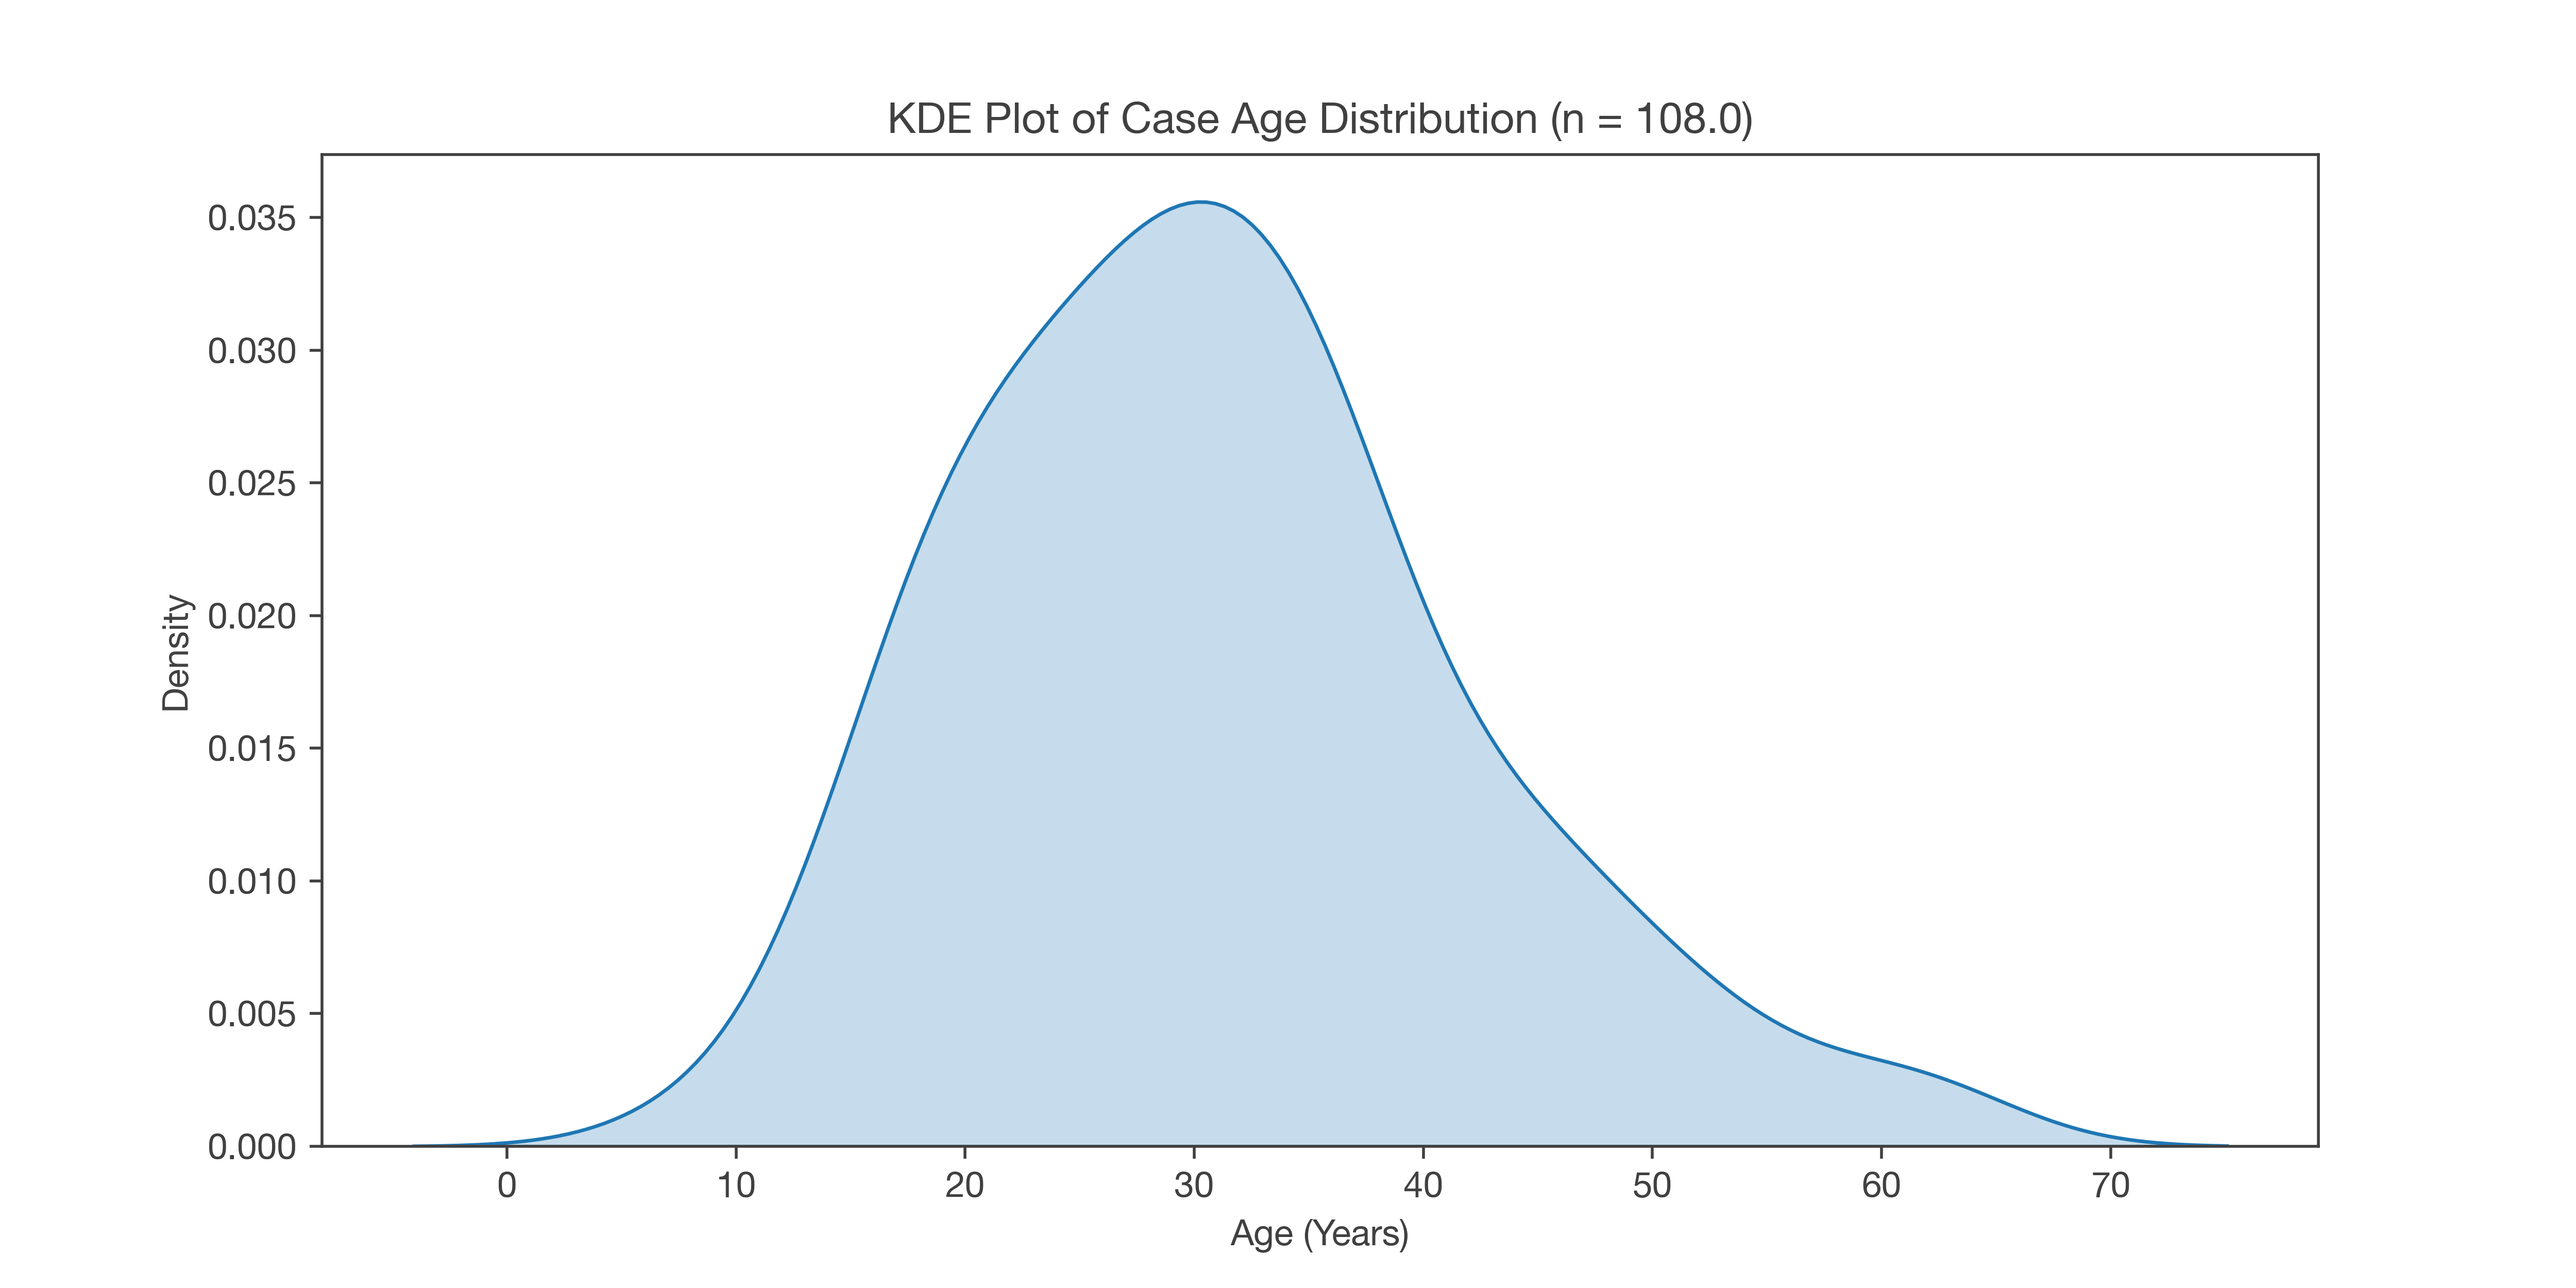
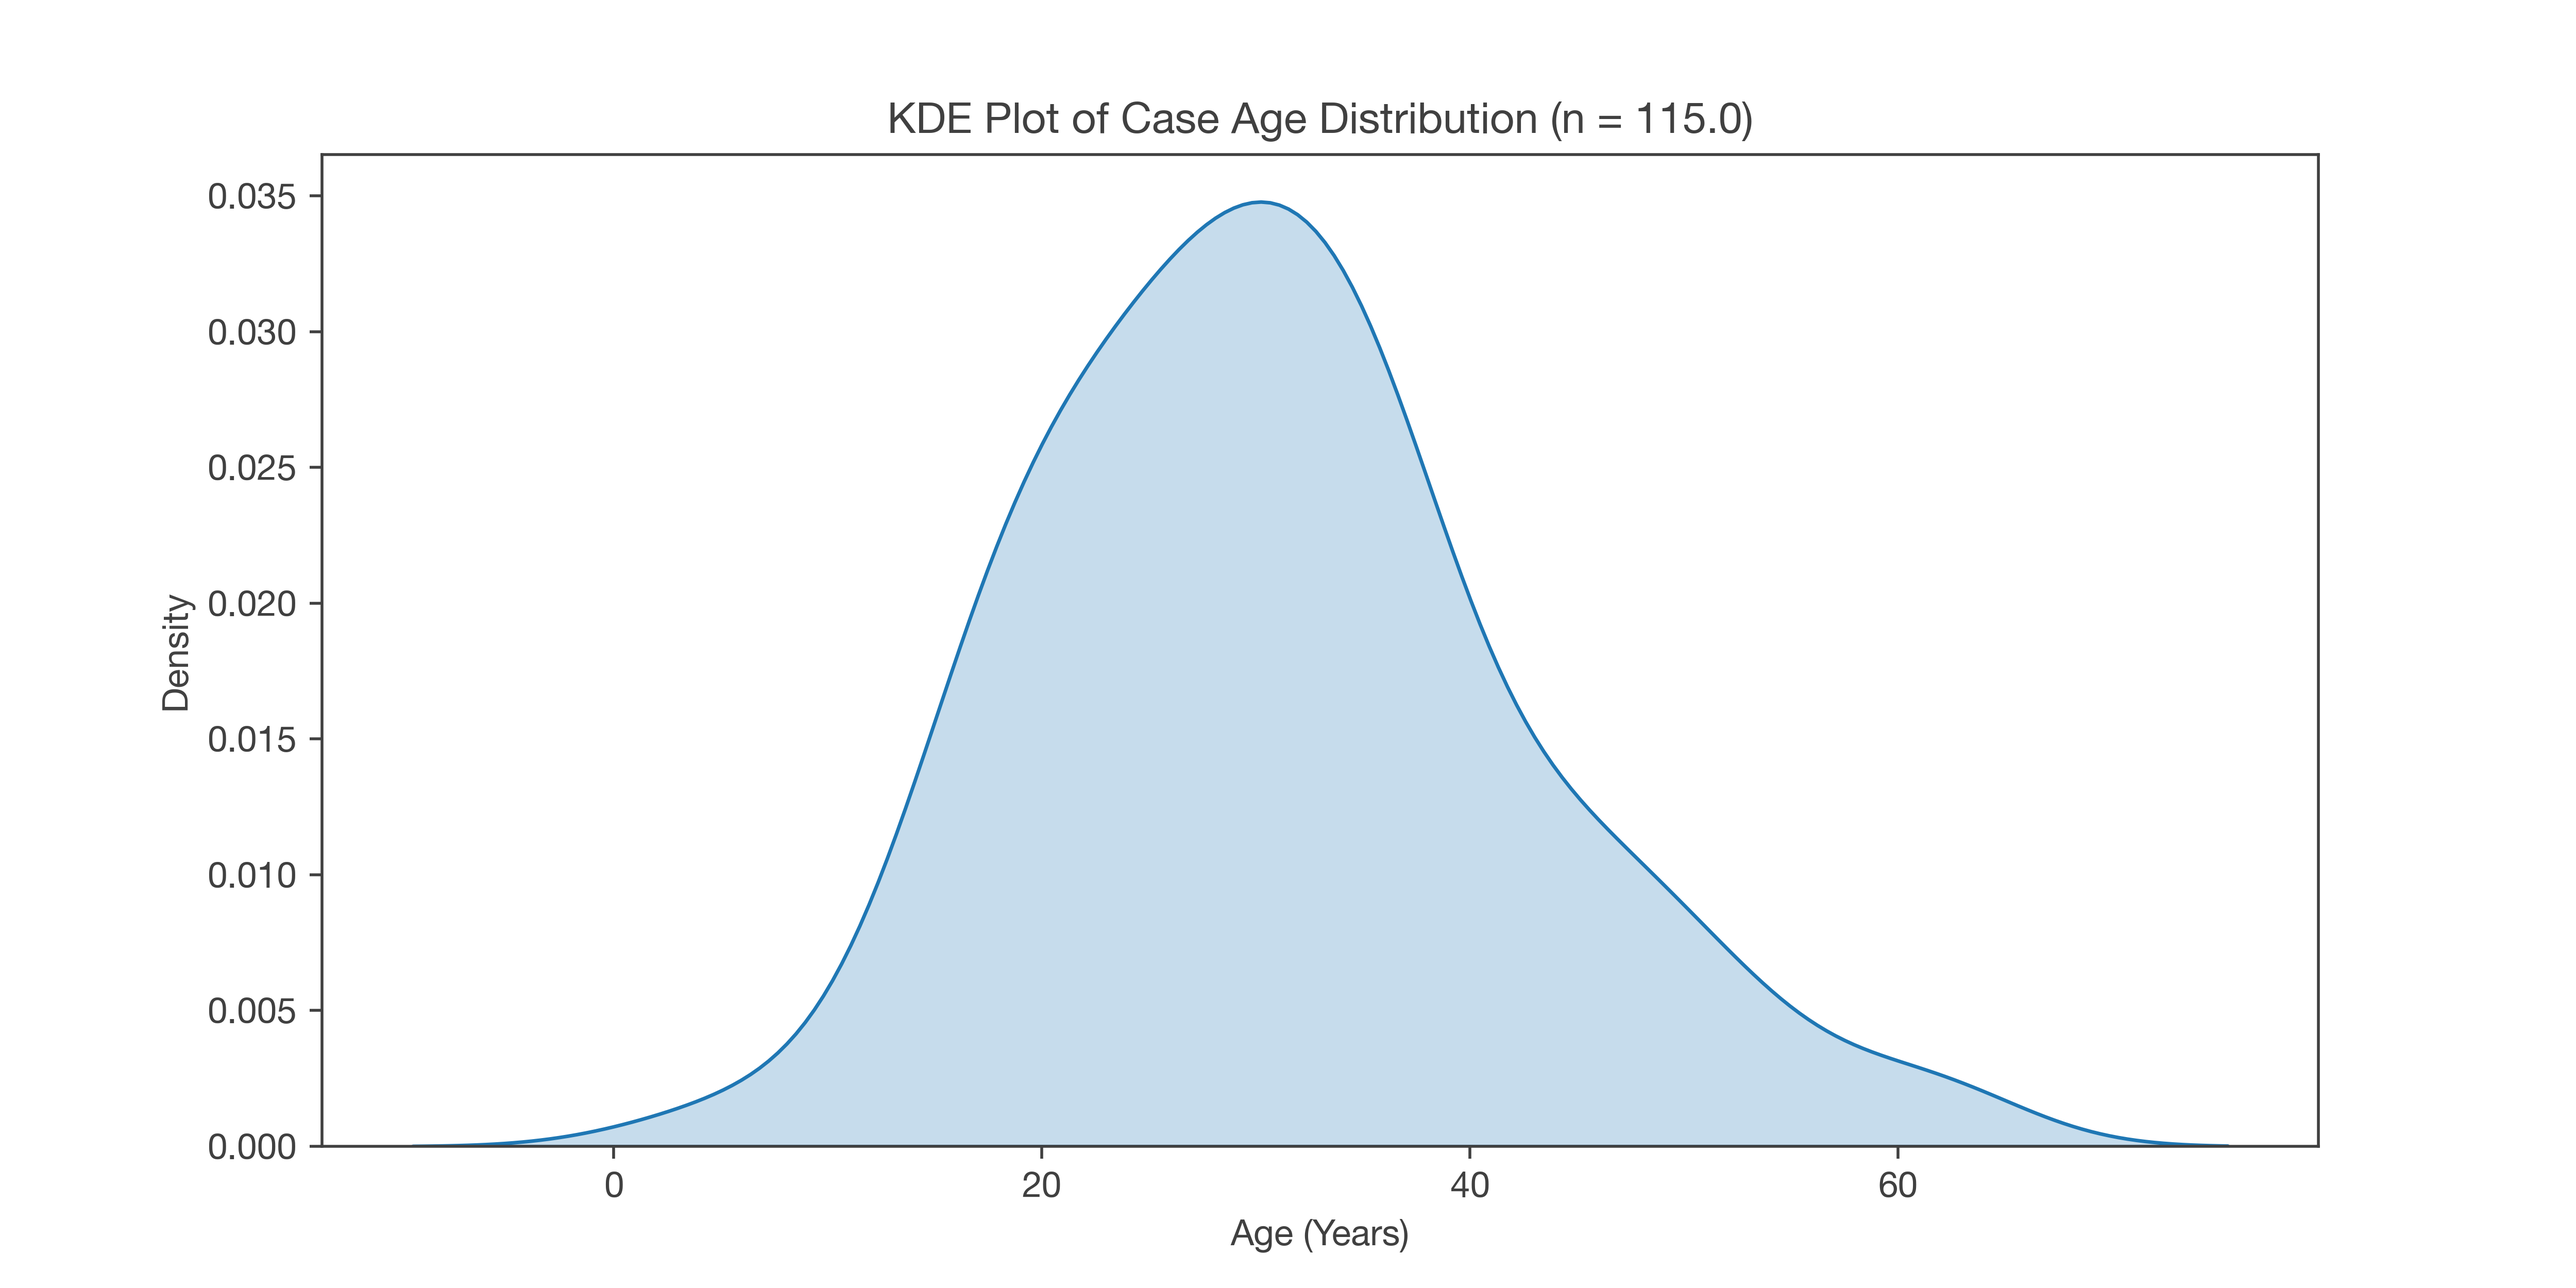
Continued data extraction

diff --git a/output/reports/data_extraction/tables/top_correlations.tex b/output/reports/data_extraction/tables/top_correlations.tex
@@ -7,36 +7,36 @@
 \toprule
 Variable A & Variable B & Correlation \\
 \midrule
-Object Long & Object Short & -0.946000 \\
-Motivation Other & Motivation Other Psych Hx & 0.759000 \\
-Object Sharp & Object Short Sharp & 0.635000 \\
-Object Short & Object Short Sharp & 0.625000 \\
+Object Long & Object Short & -0.916000 \\
+Motivation Other & Motivation Other Psych Hx & 0.760000 \\
 Severe Disability Hx & Motivation Other Severe Disability Hx & 0.624000 \\
-Object Long & Object Diameter Large & 0.602000 \\
-Psych Hx & Motivation Psychiatric & 0.594000 \\
-Object Long & Object Short Sharp & -0.589000 \\
-Outcome Injury Needing Intervention & Outcome Perforation & 0.578000 \\
-Outcome Endoscopy & Outcome Surgery & -0.571000 \\
-Motivation Other Psych Hx & Motivation Other Severe Disability Hx & 0.566000 \\
-Object Diameter Large & Object Short & -0.556000 \\
-Object Long & Object Long Sharp & 0.545000 \\
-Object Multiple & Object Short & 0.525000 \\
-Object Long Sharp & Object Short & -0.508000 \\
-Object Sharp & Object Long Sharp & 0.506000 \\
-Outcome Surgery & Outcome Injury Needing Intervention & 0.504000 \\
-Object Diameter Large & Object Short Sharp & -0.485000 \\
-Object Long & Object Multiple & -0.478000 \\
-Object Multiple & Object Short Sharp & 0.475000 \\
-Object Button Battery & Object Magnet & 0.439000 \\
-Motivation Other & Motivation Other Severe Disability Hx & 0.430000 \\
-Outcome Surgery & Outcome Conservative & -0.423000 \\
-Outcome Endoscopy & Outcome Endoscopy Surgery & 0.422000 \\
-Outcome Surgery & Outcome Perforation & 0.403000 \\
-Psych Hx & Motivation Psychosocial & -0.399000 \\
-Psych Hx & Previous Ingestions & 0.372000 \\
-Object Diameter Large & Outcome Surgery & 0.370000 \\
-Outcome Endoscopy & Outcome Perforation & -0.368000 \\
-Motivation Psychosocial & Motivation Unknown & -0.361000 \\
+Object Short & Object Short Sharp & 0.617000 \\
+Object Sharp & Object Short Sharp & 0.616000 \\
+Object Long & Object Diameter Large & 0.601000 \\
+Psych Hx & Motivation Psychiatric & 0.597000 \\
+Outcome Endoscopy & Outcome Surgery & -0.595000 \\
+Outcome Injury Needing Intervention & Outcome Perforation & 0.591000 \\
+Motivation Other Psych Hx & Motivation Other Severe Disability Hx & 0.567000 \\
+Object Long & Object Short Sharp & -0.564000 \\
+Object Long & Object Long Sharp & 0.550000 \\
+Object Diameter Large & Object Short & -0.505000 \\
+Object Long Sharp & Object Short & -0.497000 \\
+Object Sharp & Object Long Sharp & 0.496000 \\
+Outcome Surgery & Outcome Injury Needing Intervention & 0.496000 \\
+Object Multiple & Object Short & 0.486000 \\
+Object Diameter Large & Object Short Sharp & -0.475000 \\
+Object Multiple & Object Short Sharp & 0.458000 \\
+Object Long & Object Multiple & -0.450000 \\
+Motivation Other & Motivation Other Severe Disability Hx & 0.431000 \\
+Outcome Surgery & Outcome Perforation & 0.425000 \\
+Outcome Surgery & Outcome Conservative & -0.414000 \\
+Outcome Endoscopy & Outcome Endoscopy Surgery & 0.413000 \\
+Outcome Endoscopy & Outcome Perforation & -0.392000 \\
+Psych Hx & Previous Ingestions & 0.365000 \\
+Psych Hx & Motivation Psychosocial & -0.364000 \\
+Motivation Psychosocial & Motivation Unknown & -0.354000 \\
+Motivation Intent To Harm & Motivation Unknown & -0.353000 \\
+Previous Ingestions & Outcome Surgery & -0.342000 \\
 \bottomrule
 \end{tabular}
 

diff --git a/output/reports/data_extraction/tables/outcome_other_long_table.tex b/output/reports/data_extraction/tables/outcome_other_long_table.tex
@@ -29,6 +29,8 @@ Patient\ ID & Free Text \\
 369-001 & Retroperitoneal Abscess "onsidering the severe adherence of viscera on the right side of the abdomen, this area was inspected, and a retroperitoneal abscess was observed posterior to the ascending colon on the psoas muscle", "The posterior wall of the ascending colon was macerated to the presence of an adjacent abscess, and a small perforation was present" \\
 370-001 & "hypodermic needle FB that transmigrated to the left atrium and presented as a left atrial mass \\
 373-001 & "thermometer was outside the esophageal wall and was located in the left tracheoesophageal groove and wrapped in the fibrous membrane. The foreign body was removed successfully (Figure 3). The incision primarily healed and he was discharged after 5 d with no complications." \\
+380-001 & "fluoroscopy", "transferred to the psychiatric hospital on day three postoperative because of the high risk of suicidal ideation and poor insight" \\
+382-001 & "severe ulceration." \\
 386-001 & "foreign body ingestion mimicking IBD" \\
 399-001 & Septic shock, "On opening the thoracic cavity, approximately 300 ml of dark red effusion was observed in both thoracic cavities. Additionally, 60 ml of dark red effusion was present in the pericardium. On opening the abdominal cavity, approximately 400 ml of dark red effusion was present in the abdominal cavity, and a long hard FB was located in the duodenal area. The visceral surface of the liver adhered tightly to the duodenum. In the duodenum, an 11.9 cm long hard toothbrush handle was detected, with one end of the toothbrush perforating the duodenum and penetrating the right lobe of the liver (Figure 1 ). The liver was incised along the toothbrush, and the depth of the liver penetration was approximately 6.5 cm, with a large abscess present on the right lobe of the liver. The total handle was 14.5 cm long, only 11.9 cm of it protruded into the duodenum (Figure 2 ). The diameter of the duodenum rupture was approximately 1.0 cm. No other FBs or perforations were documented in the digestive tract" \\
 405-001 & "emergent tracheostomy under local anesthesia" \\

diff --git a/output/reports/data_extraction/tables/outcome_summary.tex b/output/reports/data_extraction/tables/outcome_summary.tex
@@ -5,15 +5,15 @@
 \toprule
  & Count (1s) & Valid N & Percentage (\%) \\
 \midrule
-Outcome Surgery & 67 & 109 & 61.5 \\
-Outcome Injury Needing Intervention & 58 & 109 & 53.2 \\
-Outcome Endoscopy & 42 & 108 & 38.9 \\
-Outcome Other & 42 & 109 & 38.5 \\
-Outcome Perforation & 30 & 109 & 27.5 \\
-Outcome Obstruction & 17 & 109 & 15.6 \\
-Outcome Conservative & 11 & 109 & 10.1 \\
-Outcome Endoscopy Surgery & 11 & 109 & 10.1 \\
-Outcome Death & 6 & 109 & 5.5 \\
+Outcome Surgery & 72 & 116 & 62.1 \\
+Outcome Injury Needing Intervention & 63 & 116 & 54.3 \\
+Outcome Endoscopy & 44 & 115 & 38.3 \\
+Outcome Other & 44 & 116 & 37.9 \\
+Outcome Perforation & 34 & 116 & 29.3 \\
+Outcome Obstruction & 17 & 116 & 14.7 \\
+Outcome Conservative & 11 & 116 & 9.5 \\
+Outcome Endoscopy Surgery & 11 & 116 & 9.5 \\
+Outcome Death & 6 & 116 & 5.2 \\
 \bottomrule
 \end{tabular}
         \label{tab:outcome_summary}

diff --git a/output/reports/data_extraction/tables/motivation_summary.tex b/output/reports/data_extraction/tables/motivation_summary.tex
@@ -5,14 +5,14 @@
 \toprule
  & Count (1s) & Valid N & Percentage (\%) \\
 \midrule
-Motivation Unknown & 47 & 109 & 43.1 \\
-Motivation Psychiatric & 35 & 109 & 32.1 \\
-Motivation Intent To Harm & 22 & 109 & 20.2 \\
-Motivation Psychosocial & 16 & 109 & 14.7 \\
-Motivation Other & 10 & 109 & 9.2 \\
-Motivation Protest & 9 & 109 & 8.3 \\
-Motivation Other Psych Hx & 6 & 109 & 5.5 \\
-Motivation Other Severe Disability Hx & 2 & 109 & 1.8 \\
+Motivation Unknown & 51 & 116 & 44.0 \\
+Motivation Psychiatric & 35 & 116 & 30.2 \\
+Motivation Intent To Harm & 23 & 116 & 19.8 \\
+Motivation Psychosocial & 16 & 116 & 13.8 \\
+Motivation Other & 10 & 116 & 8.6 \\
+Motivation Protest & 9 & 116 & 7.8 \\
+Motivation Other Psych Hx & 6 & 116 & 5.2 \\
+Motivation Other Severe Disability Hx & 2 & 116 & 1.7 \\
 \bottomrule
 \end{tabular}
         \label{tab:motivation_summary}

diff --git a/output/reports/data_extraction/tables/object_summary.tex b/output/reports/data_extraction/tables/object_summary.tex
@@ -5,15 +5,15 @@
 \toprule
  & Count (1s) & Valid N & Percentage (\%) \\
 \midrule
-Object Diameter Large & 76 & 108 & 70.4 \\
-Object Short & 55 & 109 & 50.5 \\
-Object Sharp & 54 & 108 & 50.0 \\
-Object Long & 50 & 108 & 46.3 \\
-Object Multiple & 47 & 108 & 43.5 \\
-Object Short Sharp & 31 & 109 & 28.4 \\
-Object Long Sharp & 22 & 109 & 20.2 \\
-Object Magnet & 5 & 108 & 4.6 \\
-Object Button Battery & 1 & 108 & 0.9 \\
+Object Diameter Large & 80 & 115 & 69.6 \\
+Object Sharp & 58 & 115 & 50.4 \\
+Object Short & 58 & 116 & 50.0 \\
+Object Long & 52 & 115 & 45.2 \\
+Object Multiple & 48 & 115 & 41.7 \\
+Object Short Sharp & 32 & 116 & 27.6 \\
+Object Long Sharp & 23 & 116 & 19.8 \\
+Object Magnet & 5 & 115 & 4.3 \\
+Object Button Battery & 2 & 115 & 1.7 \\
 \bottomrule
 \end{tabular}
         \label{tab:object_summary}

diff --git a/output/reports/data_extraction/tables/population_summary.tex b/output/reports/data_extraction/tables/population_summary.tex
@@ -5,13 +5,13 @@
 \toprule
  & Count (1s) & Valid N & Percentage (\%) \\
 \midrule
-Psych Hx & 59 & 109 & 54.1 \\
-Previous Ingestions & 36 & 109 & 33.0 \\
-Is Prisoner & 25 & 109 & 22.9 \\
-Is Psych Inpat & 8 & 109 & 7.3 \\
-Severe Disability Hx & 5 & 109 & 4.6 \\
-Under Influence Alcohol & 4 & 109 & 3.7 \\
-Is Displaced Person & 2 & 109 & 1.8 \\
+Psych Hx & 60 & 116 & 51.7 \\
+Previous Ingestions & 37 & 116 & 31.9 \\
+Is Prisoner & 25 & 116 & 21.6 \\
+Is Psych Inpat & 8 & 116 & 6.9 \\
+Severe Disability Hx & 5 & 116 & 4.3 \\
+Under Influence Alcohol & 4 & 116 & 3.4 \\
+Is Displaced Person & 2 & 116 & 1.7 \\
 \bottomrule
 \end{tabular}
         \label{tab:population_summary}

diff --git a/output/reports/data_extraction/tables/object_other_long_table.tex b/output/reports/data_extraction/tables/object_other_long_table.tex
@@ -83,6 +83,13 @@ Patient\ ID & Free Text Object\\
 369-001 & "metallic wire of 20 cm length" \\
 370-001 & "5cm hypodermic needle" \\
 373-001 & "Thermometer" \\
+377-001 & "Needle" \\
+377-002 & "metallic spoon" \\
+377-003 & "sheet metal" \\
+377-004 & "Nails" \\
+380-001 & "ingested a knife without its handle", "sharp knife, 12 cm long in the stomach" \\
+382-001 & "coins" \\
+382-001 & "button battery" \\
 386-001 & Chronic, recurrent chicken bone ingestion \\
 399-001 & 14.5cm long toothbrush handle \\
 402-001 & face of a combination lock \\

diff --git a/output/reports/data_extraction/tables/age_summary.tex b/output/reports/data_extraction/tables/age_summary.tex
@@ -7,10 +7,10 @@
 \toprule
 Statistic & Age (Years) \\
 \midrule
-Count & 98.0 \\
-Mean & 31.1 \\
-Std & 10.9 \\
-Min & 9.0 \\
+Count & 103.0 \\
+Mean & 30.9 \\
+Std & 11.3 \\
+Min & 4.0 \\
 25\% & 23.0 \\
 50\% & 30.0 \\
 75\% & 36.0 \\

diff --git a/output/reports/data_extraction/tables/gender_summary.tex b/output/reports/data_extraction/tables/gender_summary.tex
@@ -7,9 +7,9 @@
 \toprule
 Gender & Count (N) & Percentage (\%) \\
 \midrule
-Male & 67 & 61.5 \\
-Female & 35 & 32.1 \\
-Unknown & 7 & 6.4 \\
+Male & 72 & 62.1 \\
+Female & 37 & 31.9 \\
+Unknown & 7 & 6.0 \\
 \bottomrule
 \end{tabular}
 
